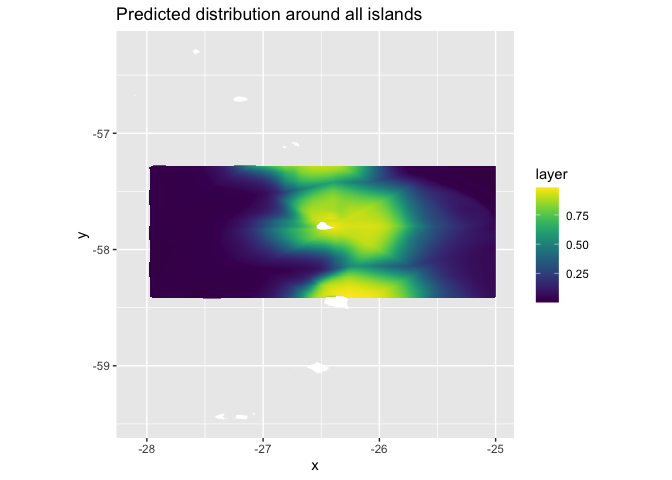
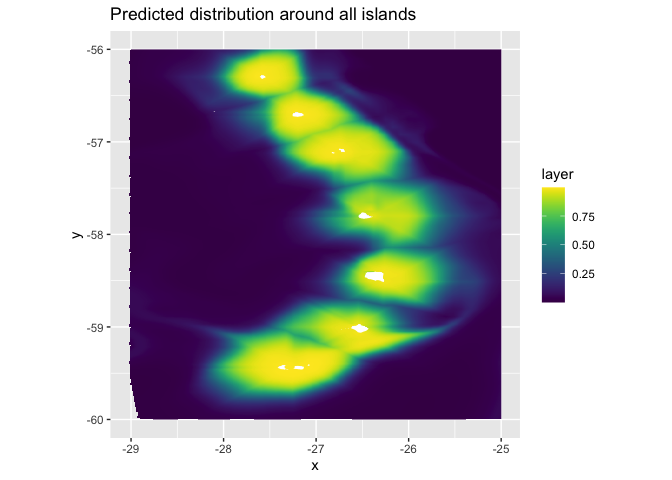
Fixed SST interpolation

diff --git a/6_Predictions.md b/6_Predictions.md
@@ -491,9 +491,11 @@ raster.
 ### SST
 
 This is the SST temperature from above, plotted for the whole study area
-after interpolating it.
+after interpolating
+it.
 
 ``` r
+wMeanSST_resampled <- resample(x = wMeanSST, y = dist, method = 'bilinear')
 raster::plot(wMeanSST_resampled, col=viridis(100))
 ```
 
@@ -510,13 +512,13 @@ projectRaster(wMeanSST_resampled, crs = CRS("+proj=laea +lon_0=-26 +lat_0=-58 +u
 ```
 
     ## class      : RasterLayer 
-    ## dimensions : 648, 997, 646056  (nrow, ncol, ncell)
-    ## resolution : 204, 200  (x, y)
-    ## extent     : -119511.7, 83876.27, -49280.75, 80319.25  (xmin, xmax, ymin, ymax)
+    ## dimensions : 2270, 1546, 3509420  (nrow, ncol, ncell)
+    ## resolution : 203, 200  (x, y)
+    ## extent     : -250405.5, 63432.49, -230376.3, 223623.7  (xmin, xmax, ymin, ymax)
     ## crs        : +proj=laea +lon_0=-26 +lat_0=-58 +units=m +ellps=WGS84 
     ## source     : memory
     ## names      : layer 
-    ## values     : 1.202468, 2.282788  (min, max)
+    ## values     : 0.6994274, 2.866962  (min, max)
 
 ``` r
 long <- seq(-250405.5 , 63432.49, 1000) #first minimum longitude in m, then max, 1000 is 1km
@@ -580,3 +582,5 @@ ggplot() +
 ![](6_Predictions_files/figure-gfm/unnamed-chunk-23-1.png)<!-- -->
 
 Is it ok to predict from all colonies at once like this?
+
+Next steps: weight predictions by the size of the colony?
